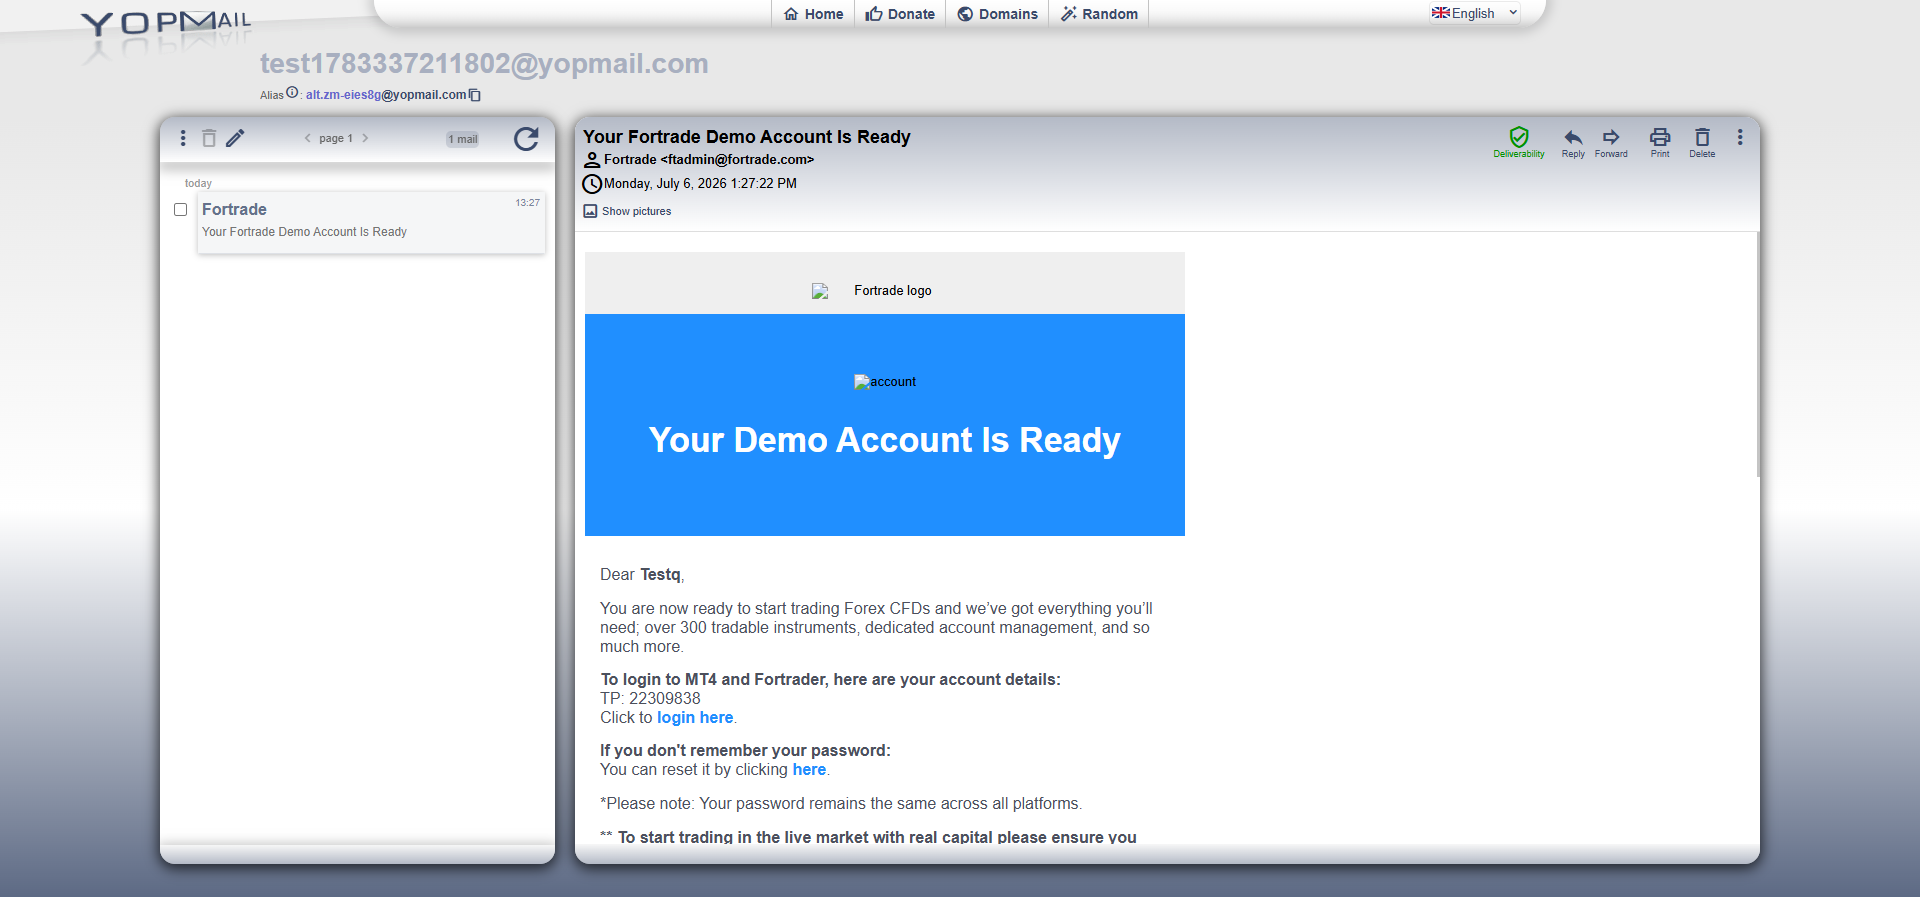
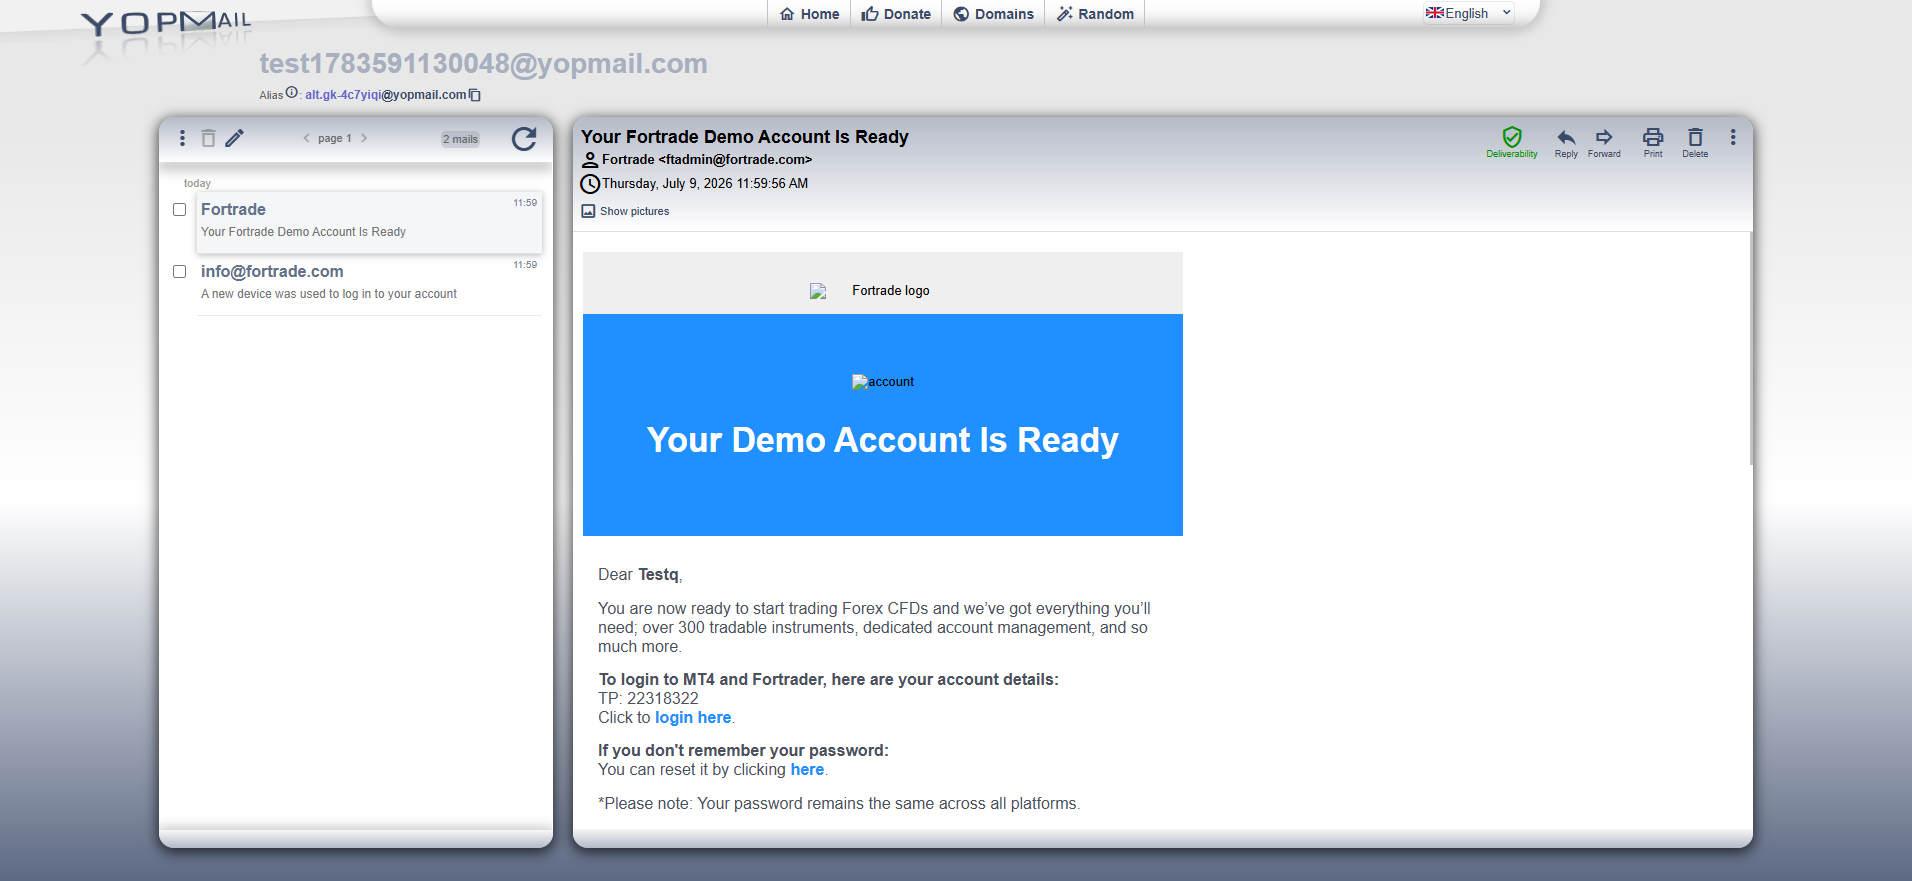
fixed code (tests) 3

diff --git a/src/main/java/core/pages/YopmailPage.java b/src/main/java/core/pages/YopmailPage.java
@@ -2,10 +2,9 @@ package core.pages;
 
 import core.actions.ElementActions;
 import core.base.BasePage;
+import core.driver.DriverManager;
 import core.waitsManagement.WaitUtil;
-import org.openqa.selenium.By;
-import org.openqa.selenium.NoSuchElementException;
-import org.openqa.selenium.WebElement;
+import org.openqa.selenium.*;
 import org.openqa.selenium.support.FindBy;
 import org.testng.Assert;
 
@@ -71,6 +70,24 @@ public class YopmailPage extends BasePage {
     @FindBy(xpath = "//td/p[contains(text(), 'Dobrodošli, Testq!')]")
     public WebElement kapitalRSTestqNameSr;
 
+    private By consentBtn = By.xpath("//p[@class='fc-button-label' and contains(text(), 'Consent')]");
+
+    public void acceptConsentIfPresent() {
+        WebElement consent = WaitUtil.waitForClickableOptional(consentBtn, 3);
+
+        if (consent != null) {
+            try {
+                consent.click();
+                System.out.println("Consent popup clicked.");
+            } catch (ElementClickInterceptedException e) {
+                ((JavascriptExecutor) DriverManager.getDriver())
+                        .executeScript("arguments[0].click();", consent);
+                System.out.println("Consent popup clicked with JavaScript.");
+            }
+        } else {
+            System.out.println("Consent popup was not displayed.");
+        }
+    }
 
 /*    public void findEmail(String emailValue){
         ElementActions.type(search,emailValue,"search input");
@@ -99,6 +116,7 @@ public class YopmailPage extends BasePage {
     }*/
 
     public void findEmail(String emailValue) {
+        acceptConsentIfPresent();
         ElementActions.type(search, emailValue, "search input");
         ElementActions.click(goBtn, "go button");
         WaitUtil.waitForCondition(driver -> {

diff --git a/src/main/java/core/waitsManagement/WaitUtil.java b/src/main/java/core/waitsManagement/WaitUtil.java
@@ -17,6 +17,43 @@ public class WaitUtil {
                 Duration.ofSeconds(TIMEOUT));
     }
 
+    public static WebDriverWait getWait(int timeoutSeconds) {
+        return new WebDriverWait(
+                DriverManager.getDriver(),
+                Duration.ofSeconds(timeoutSeconds)
+        );
+    }
+
+    public static WebDriverWait getWait(int timeoutSeconds, int pollingMillis) {
+        WebDriverWait wait = new WebDriverWait(
+                DriverManager.getDriver(),
+                Duration.ofSeconds(timeoutSeconds)
+        );
+
+        wait.pollingEvery(Duration.ofMillis(pollingMillis));
+        wait.ignoring(NoSuchElementException.class);
+        wait.ignoring(StaleElementReferenceException.class);
+
+        return wait;
+    }
+
+    public static void waitForClickable(WebElement element, int timeoutSeconds) {
+        getWait(timeoutSeconds).until(ExpectedConditions.elementToBeClickable(element));
+    }
+
+    public static WebElement waitForClickable(By locator, int timeoutSeconds) {
+        return getWait(timeoutSeconds).until(ExpectedConditions.elementToBeClickable(locator));
+    }
+
+    public static WebElement waitForClickableOptional(By locator, int timeoutSeconds) {
+        try {
+            return getWait(timeoutSeconds, 200)
+                    .until(ExpectedConditions.elementToBeClickable(locator));
+        } catch (TimeoutException e) {
+            return null;
+        }
+    }
+
     public static void waitForVisible(WebElement element) {
         getWait().until(ExpectedConditions.visibilityOf(element));
     }
